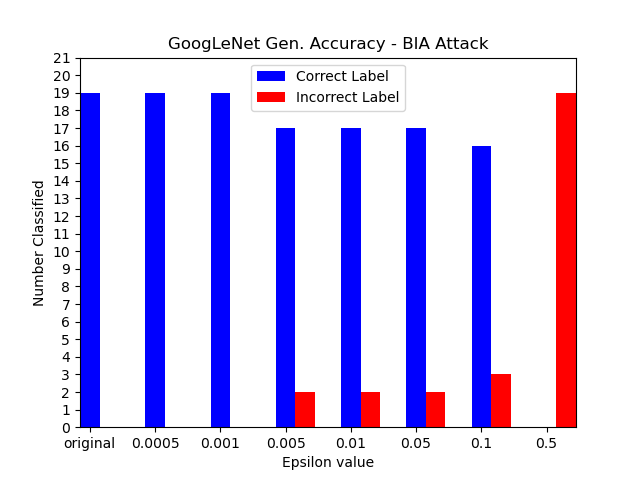
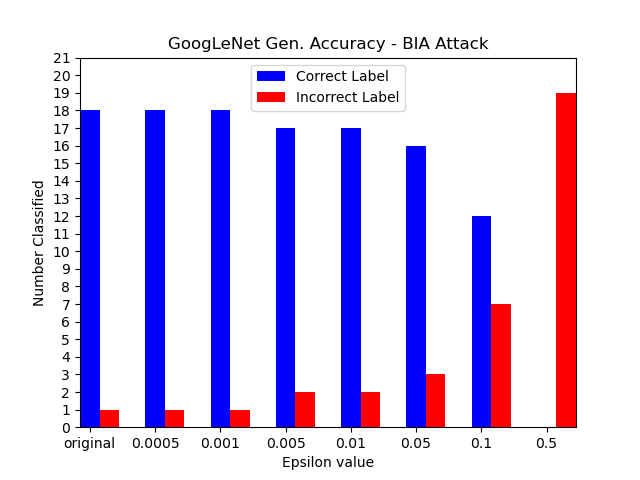
final

diff --git a/gcvtest.py b/gcvtest.py
@@ -19,7 +19,7 @@ labelsApprox = {243: 'bull mastiff, dog, dog breed',
             455: 'bottlecap, bottle cap',
             541: 'drum, membranophone, tympan, instrument',
             630: 'Loafer, shoe',
-            741: 'prayer rug, prayer mat, carpet, textile',
+            741: 'art, glass, stained glass, wall',
             471: 'cannon',
             129: 'spoonbill, bird',
             99: 'goose, bird',
@@ -80,7 +80,7 @@ def detect_labels(path):
             #determine if output labels match true and record
             flag = False
             print('Labels:')
-            for label in labels[:7]:
+            for label in labels[:5]:
                 print(label.description.lower())
                 if(label.description.lower() in classLabel and flag == False):
                     flag = True
@@ -120,7 +120,7 @@ def detect_labels(path):
     plt.bar(indices, newepsCorrect.values(), width=w, color='b', align='center')
     plt.bar(indices+w, newEpsWrong.values(), width=w, color='r', align='center')
     plt.autoscale(tight=True)
-    plt.title('GoogLeNet Gen. Accuracy - BIA Attack')
+    plt.title('GoogLeNet Gen. Accuracy - FGSM Attack')
     plt.xlabel('Epsilon value')
     plt.ylabel('Number Classified')
     plt.xticks(indices, newepsCorrect.keys())
@@ -132,4 +132,4 @@ def detect_labels(path):
     plt.show()
 
 
-detect_labels(biapath)
+detect_labels(fgsmpath)
